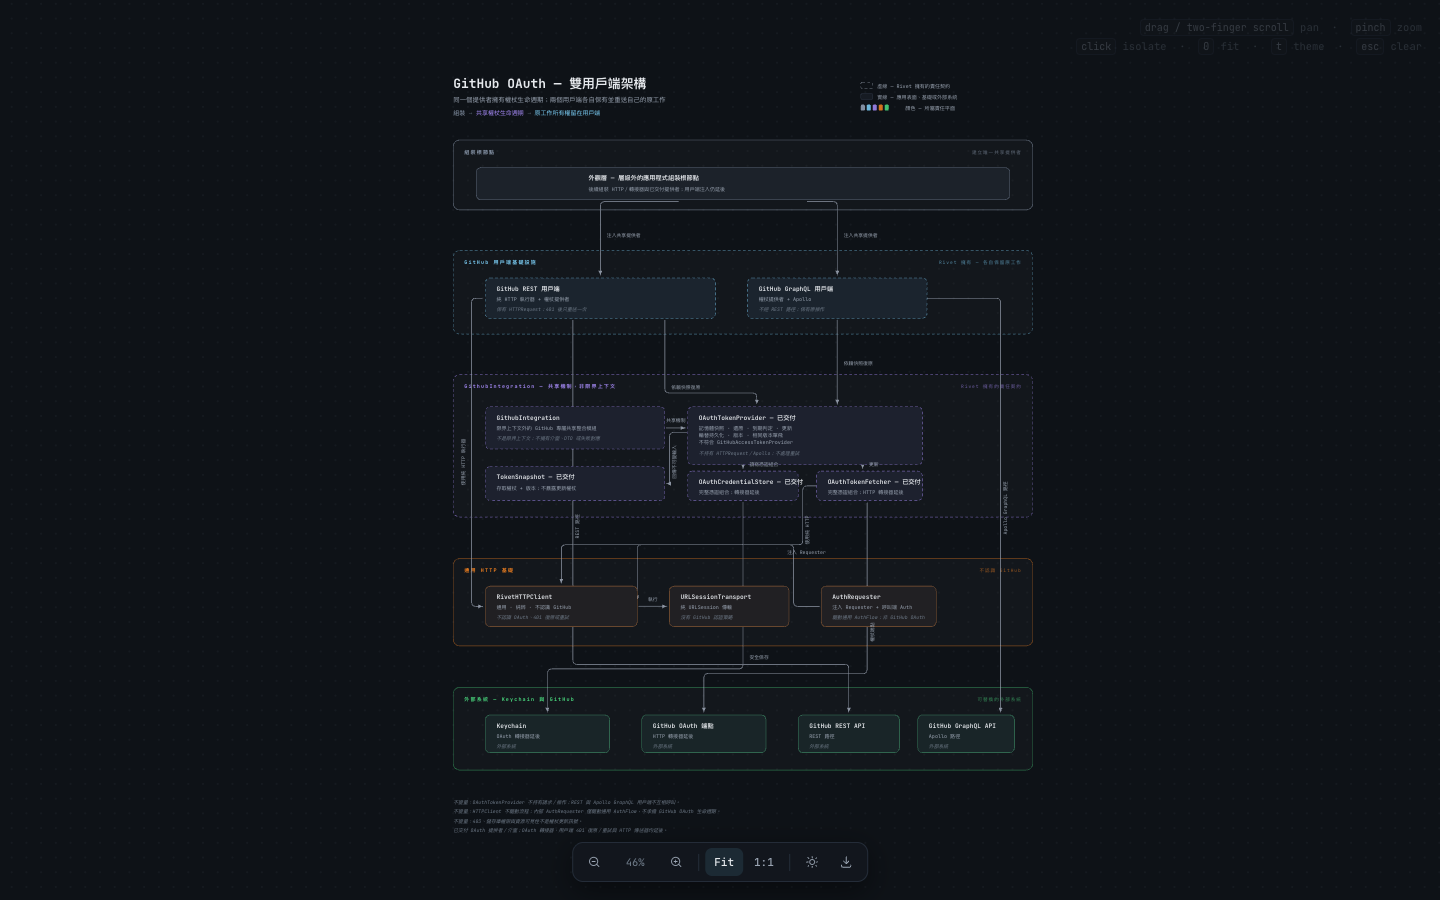
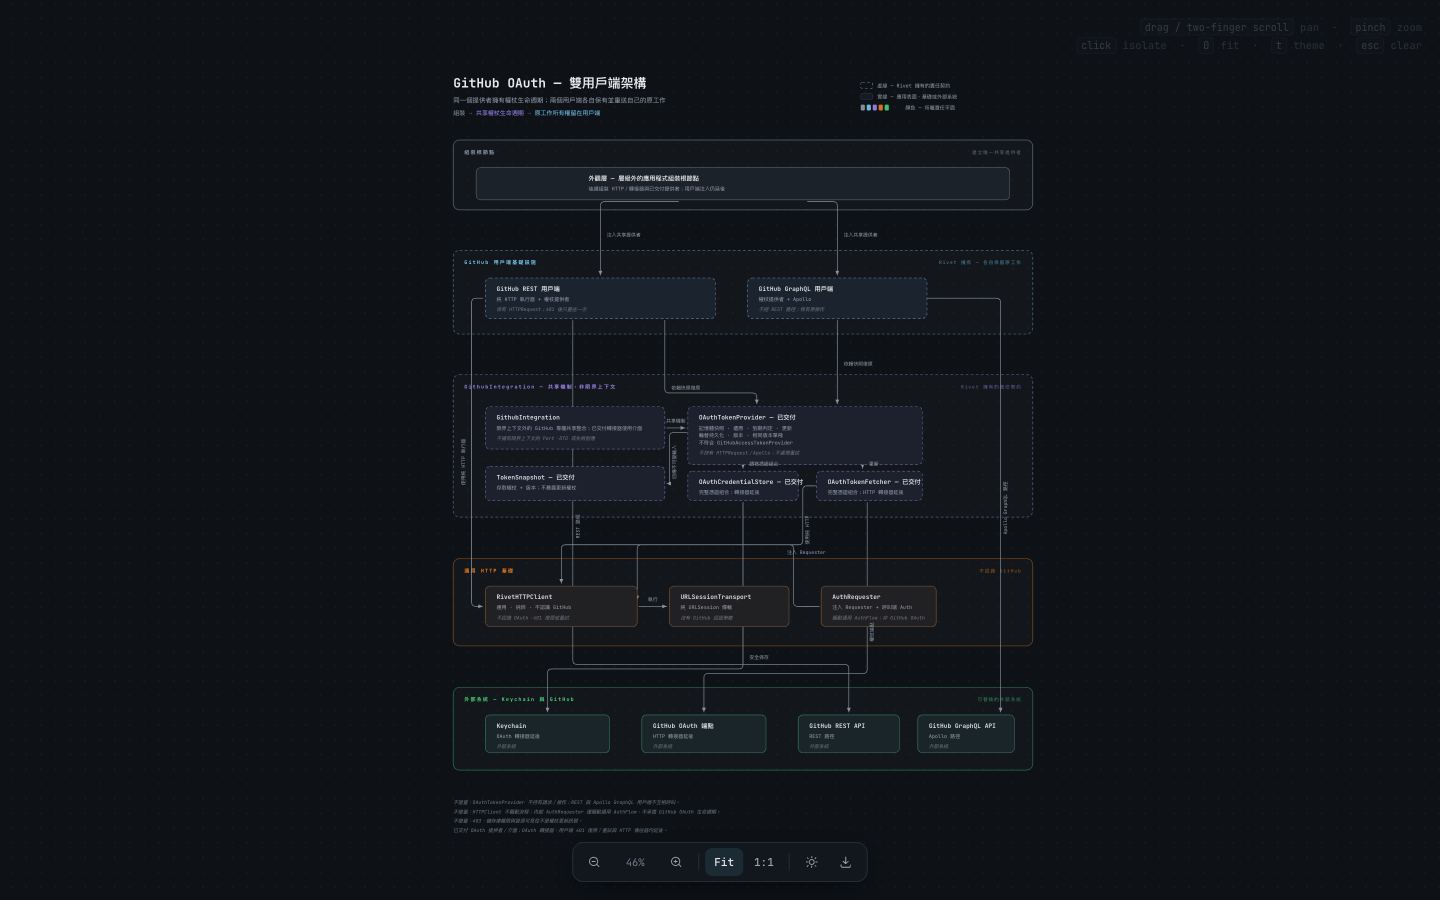
fix(github-integration): 補強 OAuth provider 單飛驗證

diff --git a/Tests/GitHubIntegrationTests/OAuthTokenProviderTests.swift b/Tests/GitHubIntegrationTests/OAuthTokenProviderTests.swift
@@ -67,14 +67,22 @@ struct OAuthTokenProviderTests {
       refreshResults: [.success(replacement)],
       refreshGate: refreshGate
     )
-    let provider = OAuthTokenProvider(store: store, fetcher: fetcher, now: { now })
+    let joinObservation = TestInFlightJoinObservation()
+    let provider = OAuthTokenProvider(
+      store: store,
+      fetcher: fetcher,
+      now: { now },
+      onInFlightTaskJoin: {
+        await joinObservation.recordJoin()
+      }
+    )
 
     let firstDemand = Task { try await provider.snapshot() }
     await refreshGate.waitForArrival()
     let secondDemand = Task { try await provider.snapshot() }
-    await Task.yield()
-    await Task.yield()
+    await joinObservation.waitForJoin()
 
+    #expect(await joinObservation.count() == 1)
     #expect(await fetcher.refreshInvocationCount() == 1)
     #expect(await store.saveInvocationCount() == 0)
     await refreshGate.open()
@@ -99,14 +107,22 @@ struct OAuthTokenProviderTests {
       loadGate: loadGate
     )
     let fetcher = TestTokenFetcher()
-    let provider = OAuthTokenProvider(store: store, fetcher: fetcher, now: { now })
+    let joinObservation = TestInFlightJoinObservation()
+    let provider = OAuthTokenProvider(
+      store: store,
+      fetcher: fetcher,
+      now: { now },
+      onInFlightTaskJoin: {
+        await joinObservation.recordJoin()
+      }
+    )
 
     let firstDemand = Task { try await provider.snapshot() }
     await loadGate.waitForArrival()
     let secondDemand = Task { try await provider.snapshot() }
-    await Task.yield()
-    await Task.yield()
+    await joinObservation.waitForJoin()
 
+    #expect(await joinObservation.count() == 1)
     #expect(await store.loadInvocationCount() == 1)
     await loadGate.open()
     let first = try await firstDemand.value
@@ -128,7 +144,15 @@ struct OAuthTokenProviderTests {
       refreshResults: [.success(replacement)],
       refreshGate: refreshGate
     )
-    let provider = OAuthTokenProvider(store: store, fetcher: fetcher, now: { now })
+    let joinObservation = TestInFlightJoinObservation()
+    let provider = OAuthTokenProvider(
+      store: store,
+      fetcher: fetcher,
+      now: { now },
+      onInFlightTaskJoin: {
+        await joinObservation.recordJoin()
+      }
+    )
     let usedSnapshot = try await provider.snapshot()
 
     let firstRecovery = Task {
@@ -138,9 +162,9 @@ struct OAuthTokenProviderTests {
     let secondRecovery = Task {
       try await provider.replacementSnapshot(afterUnauthorized: usedSnapshot)
     }
-    await Task.yield()
-    await Task.yield()
+    await joinObservation.waitForJoin()
 
+    #expect(await joinObservation.count() == 1)
     #expect(await fetcher.refreshInvocationCount() == 1)
     await refreshGate.open()
     let first = try await firstRecovery.value
@@ -544,5 +568,33 @@ private actor TestGate {
     for waiter in currentWaiters {
       waiter.resume()
     }
+  }
+}
+
+private actor TestInFlightJoinObservation {
+  private var joinCount = 0
+  private var waiters: [CheckedContinuation<Void, Never>] = []
+
+  func recordJoin() {
+    joinCount += 1
+    let currentWaiters = waiters
+    waiters.removeAll()
+    for waiter in currentWaiters {
+      waiter.resume()
+    }
+  }
+
+  func waitForJoin() async {
+    guard joinCount == 0 else {
+      return
+    }
+
+    await withCheckedContinuation { continuation in
+      waiters.append(continuation)
+    }
+  }
+
+  func count() -> Int {
+    joinCount
   }
 }

diff --git a/Sources/BoundedContexts/GitHubIntegration/Providers/OAuthTokenProvider.swift b/Sources/BoundedContexts/GitHubIntegration/Providers/OAuthTokenProvider.swift
@@ -11,6 +11,7 @@ public actor OAuthTokenProvider {
   private let store: any OAuthCredentialStore
   private let fetcher: any OAuthTokenFetcher
   private let now: @Sendable () -> Date
+  private let onInFlightTaskJoin: (@Sendable () async -> Void)?
 
   private var credential: GitHubOAuthCredentialBundle?
   private var currentSnapshot: TokenSnapshot?
@@ -25,13 +26,26 @@ public actor OAuthTokenProvider {
     self.store = store
     self.fetcher = fetcher
     self.now = now
+    onInFlightTaskJoin = nil
+  }
+
+  init(
+    store: any OAuthCredentialStore,
+    fetcher: any OAuthTokenFetcher,
+    now: @escaping @Sendable () -> Date = Date.init,
+    onInFlightTaskJoin: @escaping @Sendable () async -> Void
+  ) {
+    self.store = store
+    self.fetcher = fetcher
+    self.now = now
+    self.onInFlightTaskJoin = onInFlightTaskJoin
   }
 
   public func snapshot() async throws(OAuthTokenProviderError) -> TokenSnapshot {
     try throwIfUnavailable()
 
     if let inFlightTask {
-      return try await value(of: inFlightTask)
+      return try await join(inFlightTask)
     }
 
     if let currentSnapshot, let credential {
@@ -65,7 +79,7 @@ public actor OAuthTokenProvider {
     }
 
     if let inFlightTask {
-      return try await value(of: inFlightTask)
+      return try await join(inFlightTask)
     }
 
     guard let credential else {
@@ -77,7 +91,7 @@ public actor OAuthTokenProvider {
 
   private func startRestore() async throws(OAuthTokenProviderError) -> TokenSnapshot {
     if let inFlightTask {
-      return try await value(of: inFlightTask)
+      return try await join(inFlightTask)
     }
 
     let task: Task<TokenSnapshot, any Error> = Task { [self] in
@@ -91,7 +105,7 @@ public actor OAuthTokenProvider {
     from credential: GitHubOAuthCredentialBundle
   ) async throws(OAuthTokenProviderError) -> TokenSnapshot {
     if let inFlightTask {
-      return try await value(of: inFlightTask)
+      return try await join(inFlightTask)
     }
 
     let task: Task<TokenSnapshot, any Error> = Task { [self] in
@@ -178,5 +192,14 @@ public actor OAuthTokenProvider {
     } catch {
       preconditionFailure("OAuthTokenProvider work must only throw OAuthTokenProviderError")
     }
+  }
+
+  private func join(
+    _ task: Task<TokenSnapshot, any Error>
+  ) async throws(OAuthTokenProviderError) -> TokenSnapshot {
+    if let onInFlightTaskJoin {
+      await onInFlightTaskJoin()
+    }
+    return try await value(of: task)
   }
 }

diff --git a/docs/architecture/diagrams/github-oauth-dual-client-architecture/index.html b/docs/architecture/diagrams/github-oauth-dual-client-architecture/index.html
@@ -318,8 +318,8 @@ const BOXES = [
     texts: [['bl', 824, 528, 'GitHub GraphQL 用戶端'], ['bs', 824, 550, '權杖提供者 + Apollo'], ['bn', 824, 572, '不經 REST 路徑；保有原操作']] },
 
   { id: 'github-integration', plane: 'integration', band: 'band-integration', x: 230, y: 780, w: 390, h: 92, r: 10, dash: true,
-    name: 'GithubIntegration', about: '所有限界上下文之外、已交付既定契約的 GitHub 專屬共享整合模組。',
-    texts: [['bl', 254, 808, 'GithubIntegration'], ['bs', 254, 830, '限界上下文外的 GitHub 專屬共享整合模組'], ['bn', 254, 852, '不是限界上下文；不擁有介面、DTO 或失敗對應']] },
+    name: 'GithubIntegration', about: '所有限界上下文之外、已交付轉接器使用介面的 GitHub 專屬共享整合模組；不擁有限界上下文的 Port、DTO 或失敗對應。',
+    texts: [['bl', 254, 808, 'GithubIntegration'], ['bs', 254, 830, '限界上下文外的 GitHub 專屬共享整合；已交付轉接器使用介面'], ['bn', 254, 852, '不擁有限界上下文的 Port、DTO 或失敗對應']] },
   { id: 'provider', plane: 'integration', band: 'band-integration', x: 670, y: 780, w: 510, h: 126, r: 10, dash: true,
     name: 'OAuthTokenProvider', about: '已交付的唯一生命週期擁有者，封裝 OAuth 憑證狀態、版本、輪替持久化與單飛；不處理用戶端重試。',
     texts: [['bl', 694, 808, 'OAuthTokenProvider — 已交付'], ['bs', 694, 830, '記憶體快照 · 還原 · 到期判定 · 更新'], ['bs', 694, 846, '輪替持久化 · 版本 · 相同版本單飛'], ['bs', 694, 862, '不符合 GitHubAccessTokenProvider'], ['bn', 694, 884, '不持有 HTTPRequest／Apollo；不處理重試']] },

diff --git a/docs/architecture/diagrams/github-oauth-dual-client-architecture/scene.js b/docs/architecture/diagrams/github-oauth-dual-client-architecture/scene.js
@@ -35,8 +35,8 @@ const BOXES = [
     texts: [['bl', 824, 528, 'GitHub GraphQL 用戶端'], ['bs', 824, 550, '權杖提供者 + Apollo'], ['bn', 824, 572, '不經 REST 路徑；保有原操作']] },
 
   { id: 'github-integration', plane: 'integration', band: 'band-integration', x: 230, y: 780, w: 390, h: 92, r: 10, dash: true,
-    name: 'GithubIntegration', about: '所有限界上下文之外、已交付既定契約的 GitHub 專屬共享整合模組。',
-    texts: [['bl', 254, 808, 'GithubIntegration'], ['bs', 254, 830, '限界上下文外的 GitHub 專屬共享整合模組'], ['bn', 254, 852, '不是限界上下文；不擁有介面、DTO 或失敗對應']] },
+    name: 'GithubIntegration', about: '所有限界上下文之外、已交付轉接器使用介面的 GitHub 專屬共享整合模組；不擁有限界上下文的 Port、DTO 或失敗對應。',
+    texts: [['bl', 254, 808, 'GithubIntegration'], ['bs', 254, 830, '限界上下文外的 GitHub 專屬共享整合；已交付轉接器使用介面'], ['bn', 254, 852, '不擁有限界上下文的 Port、DTO 或失敗對應']] },
   { id: 'provider', plane: 'integration', band: 'band-integration', x: 670, y: 780, w: 510, h: 126, r: 10, dash: true,
     name: 'OAuthTokenProvider', about: '已交付的唯一生命週期擁有者，封裝 OAuth 憑證狀態、版本、輪替持久化與單飛；不處理用戶端重試。',
     texts: [['bl', 694, 808, 'OAuthTokenProvider — 已交付'], ['bs', 694, 830, '記憶體快照 · 還原 · 到期判定 · 更新'], ['bs', 694, 846, '輪替持久化 · 版本 · 相同版本單飛'], ['bs', 694, 862, '不符合 GitHubAccessTokenProvider'], ['bn', 694, 884, '不持有 HTTPRequest／Apollo；不處理重試']] },

diff --git a/docs/architecture/README.md b/docs/architecture/README.md
@@ -69,4 +69,6 @@ PR Reader 的 WebView diff rendering 中，Facade／UseCase orchestration 已有
 
 ## 尚未定義的項目
 
+`GitHubIntegration` 的 OAuth credential lifecycle 不屬於本節尚未定義範圍：已交付供轉接器使用的 `OAuthCredentialStore`／`OAuthTokenFetcher` ports，以及 actor-isolated `OAuthTokenProvider` runtime。尚未交付者僅為 OAuth HTTP／Keychain adapters、REST／GraphQL client integration、401 classification 與 retry。
+
 Rivet 仍是 architecture baseline。`RivetHTTPClient` 是 generic、GitHub-unaware 的 technical HTTP foundation，可由各 consuming Domain BC 的 local Infra 採用；它具備 Swift product、target、`HTTPClient.Configuration` 與 package-owned `URLSessionTransport`。configuration 提供 optional base URL、default headers 與 finite positive timeout；client 可對 absolute Foundation `URL` 或 relative path 執行 raw request。base URL/path 是 generic convenience，不是 Endpoint、Path 或 Query builder；configured client 的 headers 以 request value case-insensitively 覆寫 defaults，並在 transport 前區分 URL/configuration validation 與 `HTTPClientError` transport failure。`HTTPURLValidationError` 的 additive public cases 會影響下游 exhaustive switch 的 source compatibility。`HTTPHeaders` 提供 case-insensitive lookup 與 typed read/write convenience，`HTTPResponse` 保留 canonical raw `Data` response，並提供由呼叫端傳入 `JSONDecoder` 的 opt-in `json(_:decoder:)` 與 `jsonSemantic(_:decoder:)` conveniences。兩個 API 的 decoded payload 都必須符合 `Decodable & Sendable`；這是 public source-breaking contract。前者直接傳遞 decoder 的原始 error；後者只將 decode failure 分類為有限 semantic kind，並保留完整 underlying error。它以 `HTTPClientError` 表達 cancellation、network failure、non-HTTP response 與無法分類的 underlying failure，並將所有 HTTP status 與 raw response data 原樣保留給呼叫端。public `HTTPClientError.authFlowFinishedWithoutResponse` 是 internal `AuthRequester` 在 flow 尚未取得 response 即 `.finish` 時表達的 generic、non-transport terminal error；它不重分類既有 transport failure，也不建立 status policy。package 不擁有 decoder configuration；它不是 `GitHubIntegration` 的實作，也不提供 Endpoint 或 query builder，且不實作 status 或 `Content-Type` validation、retry、token refresh、default/shared JSON decoder 或其他 response decode policy；`jsonSemantic(_:decoder:)` 僅是 caller-invoked decode-failure classification，不改變 raw response dataflow。GitHub endpoint、endpoint-specific media type、DTO 與 technical classification 至 Domain failure contract 的 mapping 都屬 consuming Domain BC local Infra。`GitHubIntegration` 是已實作的 non-BC shared GitHub-specific integration module，目前提供同步 access-token store/provider contract，以及沒有 conformer 的 public、`Sendable` async `GitHubAccessTokenProvider` token-acquisition contract；後者不實作 PAT／OAuth lifecycle、`AsyncHttpSender`、authorization、401 recovery 或 retry。另已交付 public、process-local、non-persistent 的 `InMemoryGitHubTokenStore`，僅在單一 store instance 的 process-memory lifecycle 保存一個 token，以及 public `KeychainTokenStore`：後者以 legacy macOS Keychain 為目前使用者保存單一 GitHub access token，並可跨 process 讀回；兩者均不實作 authorization。GitHub REST／GraphQL raw request execution、authentication mechanism、共通 request headers／API version、rate limit、retry、pagination、GitHub error technical classification 與 shared configuration 仍為 deferred capability。它不依賴任何 BC，且不承擔 BC 的 DTO translation、failure mapping 或 business meaning，也不產生 shared BC failure contract。除這個受限切片與既定 PR Reader WebView diff pipeline contract 外，本階段不定義 `Outcome` 的程式碼型別、泛型、case 名稱、payload schema，也不定義其餘 module、package 或產品實作細節。這些決策將隨著一次一個 Bounded Context 的實作 topic 處理。

diff --git a/docs/architecture/diagrams/github-oauth-dual-client-architecture/canvas-visual-review.md b/docs/architecture/diagrams/github-oauth-dual-client-architecture/canvas-visual-review.md
@@ -5,7 +5,7 @@
 | 證據 | 縮放／平移 | 可證明的範圍 | 人工檢視結果 |
 | --- | --- | --- | --- |
 | [canvas-overview-1440x900.png](canvas-overview-1440x900.png) | 46% 適合畫面；檢視狀態 `#0.460,380,48` | 五個責任區、外觀層到兩個用戶端的主要依賴、共享整合、HTTP 基礎與外部系統均完整可見。此圖用於完整性，不宣稱所有小字可讀。 | 五個責任平面與主要依賴路徑完整可見，沒有元件重疊或不相關路徑穿越。 |
-| [canvas-top-1440x900.png](canvas-top-1440x900.png) | 60%；檢視狀態 `#0.598,278,-73` | 標題、層級外組裝根節點、GitHub REST／GraphQL 用戶端，以及 GithubIntegration、已交付的 OAuthTokenProvider、TokenSnapshot、OAuthCredentialStore、OAuthTokenFetcher 的文字與相互依賴。 | 文字可讀；OAuthTokenProvider、TokenSnapshot 與介面的「已交付」狀態，以及 Keychain／HTTP 轉接器延後狀態沒有碰撞，且不將用戶端重試誤畫為已交付。 |
+| [canvas-top-1440x900.png](canvas-top-1440x900.png) | 60%；檢視狀態 `#0.598,278,-73` | 標題、層級外組裝根節點、GitHub REST／GraphQL 用戶端，以及 GithubIntegration、已交付的 OAuthTokenProvider、TokenSnapshot、OAuthCredentialStore、OAuthTokenFetcher 的文字與相互依賴。 | 文字可讀；GithubIntegration 僅有轉接器使用介面，並不擁有限界上下文的 Port、DTO 或失敗對應；OAuthTokenProvider、TokenSnapshot 與介面的「已交付」狀態，以及 Keychain／HTTP 轉接器延後狀態沒有碰撞，且不將用戶端重試誤畫為已交付。 |
 | [canvas-bottom-1440x900.png](canvas-bottom-1440x900.png) | 60%；檢視狀態 `#0.598,278,-73` | 共享整合、RivetHTTPClient、URLSessionTransport、AuthRequester、Keychain 與 GitHub 外部 API，以及 REST → 純 HTTP 執行器連線的完整下半路徑。 | 文字可讀；AuthRequester 仍僅驅動通用 AuthFlow；HTTP 基礎與外部系統沒有碰撞，且 OAuth 轉接器延後標示不會暗示 Keychain／HTTP 轉接器已交付。 |
 
 [canvas-1440x900.png](canvas-1440x900.png) 同步為本輪的 60% 詳細檢視區。此 canvas 只表達責任與依賴，未表達執行期序列。本機檢視器的唯一主控台錯誤是缺少 `favicon.ico` 的 404，與 canvas 執行期或內容無關。

diff --git a/docs/architecture/github-oauth-dual-client.md b/docs/architecture/github-oauth-dual-client.md
@@ -48,9 +48,11 @@ Facade（layer 外的 application composition root）
 
 | 狀況 | Outcome |
 | --- | --- |
-| 無 credential、refresh failure、重送後第二次 401 | provider 分別回傳 `.missingCredential`／`.refresh`；Facade re-auth 與第二次 401 policy deferred |
-| 暫時性 refresh／Keychain／網路失敗，且遠端 rotation 尚未接受 | provider 的 `.refresh` 保留 credential；Keychain adapter／client outcome deferred |
+| 無 credential | provider 回傳 `.missingCredential`；Facade re-auth deferred |
+| credential store load failure | provider 回傳 `.restore`；Keychain adapter／client outcome deferred |
+| token fetcher refresh failure，且遠端 rotation 尚未接受 | provider 回傳 `.refresh` 並保留 credential |
 | 遠端 rotation 已接受後的本地 persistence failure | provider `.persist` 後永久 unavailable；不宣稱舊 bundle 仍可用，credential reconciliation 留待後續 topic |
+| 重送後第二次 401 | client policy deferred |
 | 403、repository permission、resource visibility | 非 token-invalid signal；不 refresh |
 
 ## Boundary 與後續 Topic
